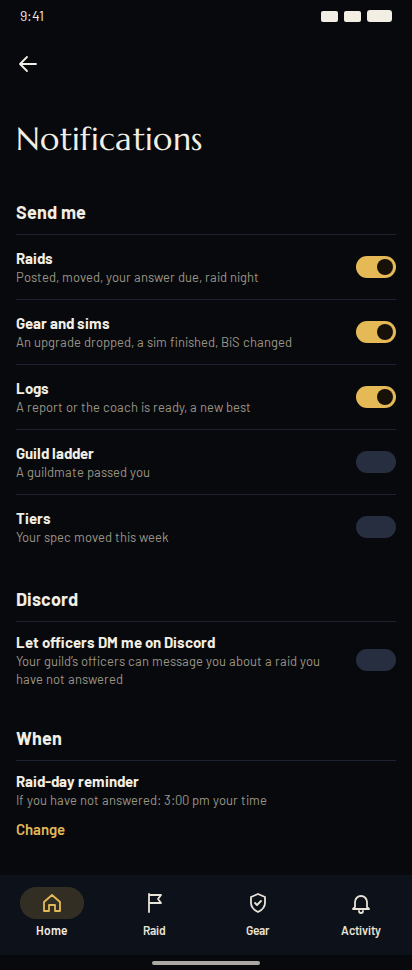
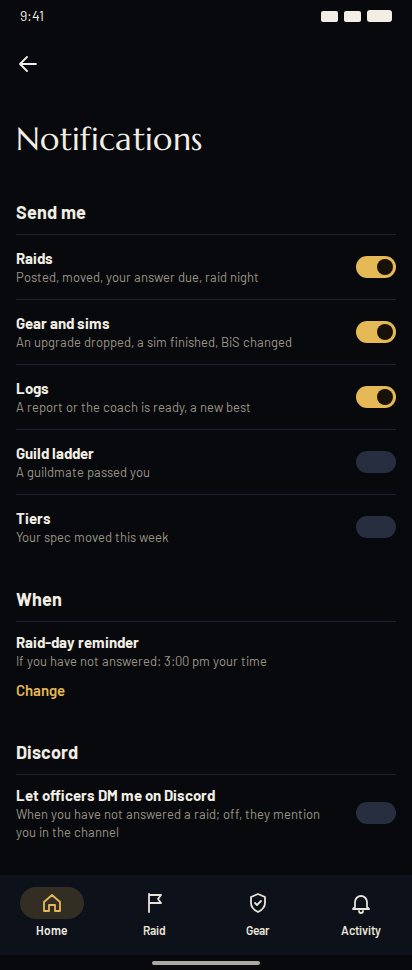
feat(ios): Let officers DM me on Discord follows the shared mock (android4/notify 065266372): after When, its line and regions

Changed region(s): [[0.0291, 0.5876, 0.7864, 0.866], [0.8738, 0.8041, 0.9612, 0.866], [0.8738, 0.6495, 0.9612, 0.7113]]

diff --git a/apps/ios/App/Account/NotificationSettings.swift b/apps/ios/App/Account/NotificationSettings.swift
@@ -254,13 +254,6 @@ struct NotificationSettingsView: View {
             }
         }
         .padding(.top, FSSpace.space7)
-        // A guild member's: officers may DM them about a raid they have not answered (F3).
-        if summary.rows.contains(where: { $0.group == .raids }) {
-            FSSection(Copy.notificationsDiscord) {
-                SwitchRow(title: Copy.notificationsOfficerDms, sub: Copy.notificationsOfficerDmsLine, on: officerDMs, set: setOfficerDMs)
-            }
-            .padding(.top, FSSpace.space7)
-        }
         FSSection(Copy.notificationsWhen) {
             FSRow(
                 title: Copy.notificationsReminder,
@@ -273,6 +266,13 @@ struct NotificationSettingsView: View {
             }
         }
         .padding(.top, FSSpace.space7)
+        // A guild member's: officers may DM them about a raid they have not answered (F3).
+        if summary.rows.contains(where: { $0.group == .raids }) {
+            FSSection(Copy.notificationsDiscord) {
+                SwitchRow(title: Copy.notificationsOfficerDms, sub: Copy.notificationsOfficerDmsLine, on: officerDMs, set: setOfficerDMs)
+            }
+            .padding(.top, FSSpace.space7)
+        }
     }
 }
 

diff --git a/design/mocks/ws_app_flows.py b/design/mocks/ws_app_flows.py
@@ -506,7 +506,8 @@ def permission(guild: str):
 
 
 def notification_settings(platform: str) -> str:
-    """The groups (F4), each switch on its title row (review S12); Raids and Guild ladder show to a guild member, Officer to an officer."""
+    """The groups (F4), each switch on its title row (review S12); Raids and Guild ladder show to a guild member, Officer to an officer;
+    the raid-day reminder; the officer DM opt-in (a guild member's)."""
     groups = [('Raids', 'Posted, moved, your answer due, raid night', True), ('Gear and sims', 'An upgrade dropped, a sim finished, BiS changed', True),
               ('Logs', 'A report or the coach is ready, a new best', True), ('Guild ladder', 'A guildmate passed you', False),
               ('Tiers', 'Your spec moved this week', False)]  # Officer shows to officers only; Thandrel is a member
@@ -514,11 +515,11 @@ def notification_settings(platform: str) -> str:
     rows = ['<div class="row setrow"><div class="b"><div class="ttl">' + n + '</div><div class="sub">' + s + '</div></div>'
             + Switch('', on) + '</div>' for n, s, on in groups]
     nudge = Rows([Row('Raid-day reminder', 'If you have not answered: 3:00 pm your time', trail='<a class="link" href="#">Change</a>', link=False)], open_=True)
-    # A guild member's (coordinator, 2026-11-08: officer_dms, off by default): with it off, Not answered offers no Discord DM.
-    dms = Rows(['<div class="row setrow"><div class="b"><div class="ttl">Let officers DM me on Discord</div><div class="sub">'
-                'Your guild&rsquo;s officers can message you about a raid you have not answered</div></div>' + Switch('', False) + '</div>'],
-               open_=True)
-    body = PageHeader('Notifications') + Section('Send me', Rows(rows, open_=True)) + Section('Discord', dms) + Section('When', nudge)
+    # officer_dms (D16, off by default): channel mentions are the default; on, the officers' Not answered row gets a DM link.
+    dms = Rows(['<div class="row setrow"><div class="b"><div class="ttl">Let officers DM me on Discord</div>'
+                '<div class="sub">When you have not answered a raid; off, they mention you in the channel</div></div>'
+                + Switch('', False) + '</div>'], open_=True)
+    body = PageHeader('Notifications') + Section('Send me', Rows(rows, open_=True)) + Section('When', nudge) + Section('Discord', dms)
     return app_page(platform, _page(body, 'Notifications'), 'home', back='Home', title='Notifications')
 
 
